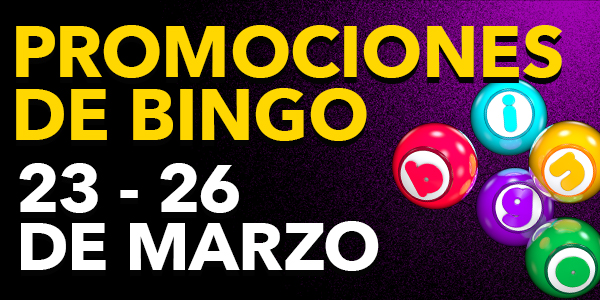
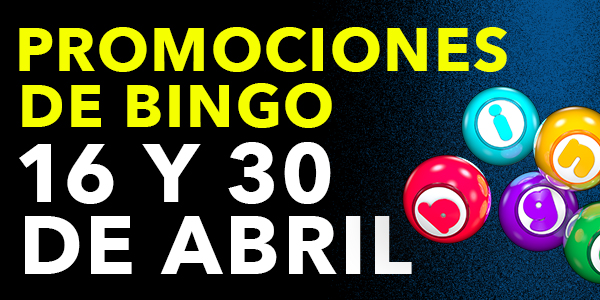
adding bingo promos

diff --git a/src/views/MRG/Pages/gaming/bingo/bingo.js b/src/views/MRG/Pages/gaming/bingo/bingo.js
@@ -133,10 +133,10 @@ const Bingo = () => {
                       : 'Todos los equipos electrónicos serán desinfectados antes y después de cada uso.'}
                   </li>
                 </ul>
-                {isRunning([2022, 2, 10], [2022, 3, 27]) ? (
+                {isRunning([2022, 4, 10], [2022, 5, 1]) ? (
                   <a
                     target="_blank"
-                    href="https://mapa-media.s3.amazonaws.com/website/Bingo+Program+March+2022.pdf"
+                    href="https://mapa-media.s3.amazonaws.com/website/april_bingo_program.pdf"
                   >
                     <img
                       style={{
@@ -168,9 +168,3 @@ const Bingo = () => {
 };
 
 export default Bingo;
-
-/*
-Don’t miss the Holiday Bingo Extravaganza, paying nearly $20,000 on Christmas Day and over $50,000 on New Year’s Eve!
-
-¡No se pierda el Holiday Bingo Extravaganza, pagando casi $20,000 el día de Navidad y más de $50,000 la víspera de Año Nuevo!
-*/

diff --git a/src/services/functions/popups/popupManager.js b/src/services/functions/popups/popupManager.js
@@ -84,8 +84,8 @@ const mrgPopup = {
     },
     end: {
       year: '22',
-      month: 'April',
-      day: '30',
+      month: 'May',
+      day: '1',
       time: '',
     },
   }),
